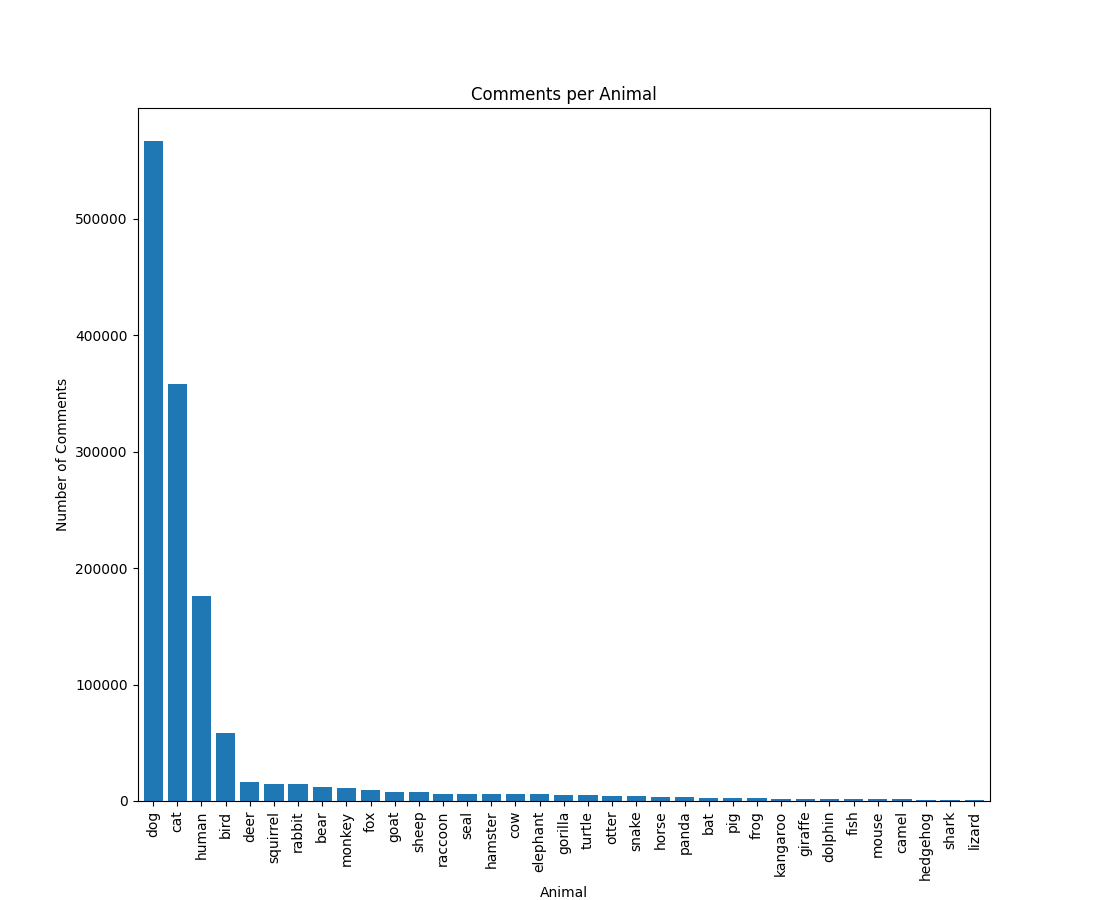
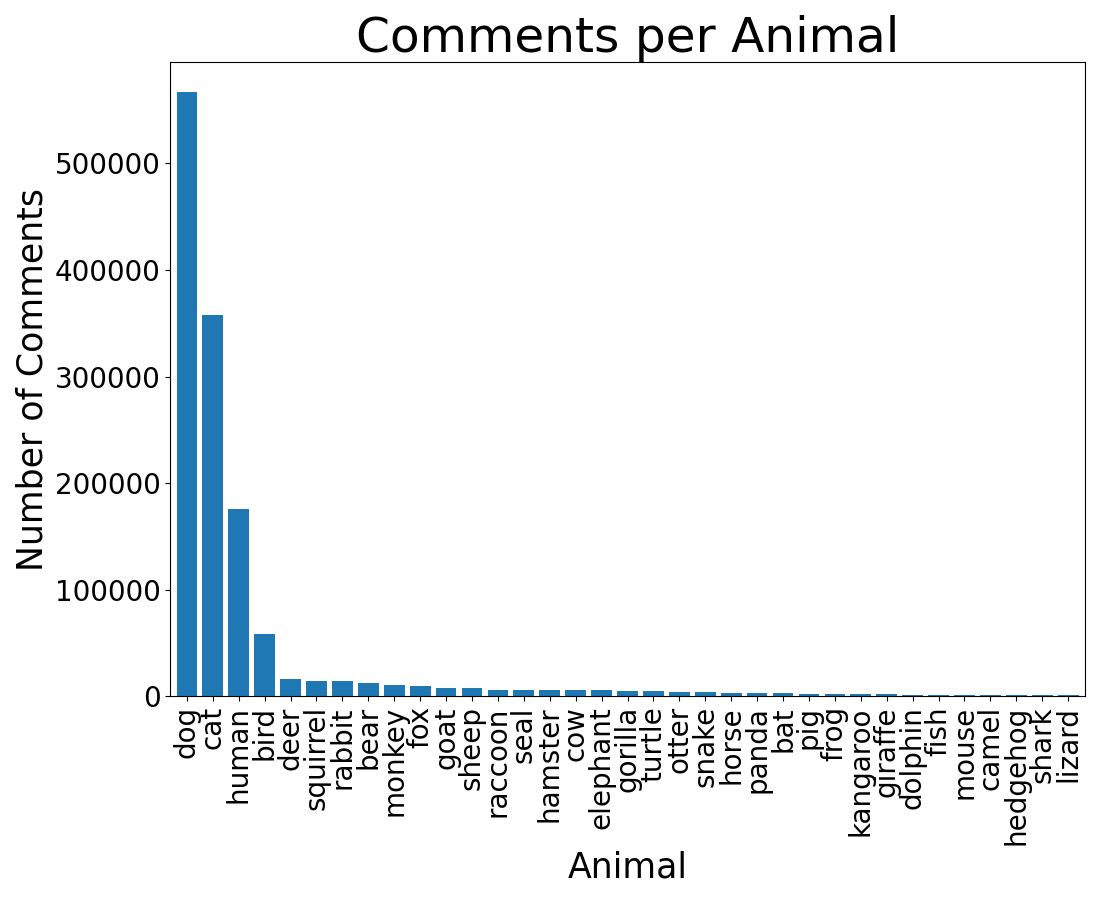
Changed font size for bar_graphs

Changed region(s): [[0.0, 0.0933, 0.9891, 1.0], [0.3091, 0.0, 0.8345, 0.0622], [0.4327, 0.0933, 0.6182, 0.1244]]

diff --git a/bar_graphs.py b/bar_graphs.py
@@ -58,20 +58,26 @@ comments_sorted = pd.DataFrame(list(zip(comments_sorted['y'],\
 plt.figure()
 upvote_graph = plt.subplot()
 upvotes_sorted.plot.bar(width = 0.8, align='center', legend =None,\
-     figsize=(11, 9))
-plt.title('Upvotes per Animal')
-plt.xlabel('Animal')
-plt.ylabel('Upvotes')
+     figsize=(12,9))
+plt.title('Upvotes per Animal', fontsize = 35)
+plt.xlabel('Animal', fontsize = 25)
+plt.ylabel('Upvotes',fontsize = 25)
+plt.xticks(fontsize=20)
+plt.yticks(fontsize=20)
+plt.ticklabel_format(axis="y", style="plain")
 plt.setp(upvote_graph.get_xticklabels(), rotation=70)
+plt.tight_layout()
 plt.savefig('visualizations/upvotes.png')
 
-plt.figure(figsize=(11, 9), dpi=80)
+plt.figure(figsize=(12, 10), dpi=80)
 comment_graph = plt.subplot()
 comments_sorted.plot.bar(width = 0.8, align='center', legend =None,\
      figsize=(11, 9))
-plt.title('Comments per Animal')
-plt.xlabel('Animal')
-plt.ylabel('Number of Comments')
-
+plt.title('Comments per Animal',fontsize = 35)
+plt.xlabel('Animal',fontsize = 25)
+plt.ylabel('Number of Comments',fontsize = 25)
+plt.xticks(fontsize=20)
+plt.yticks(fontsize=20)
 plt.setp(comment_graph.get_xticklabels(), rotation=70)
+plt.tight_layout()
 plt.savefig('visualizations/comments.png')
